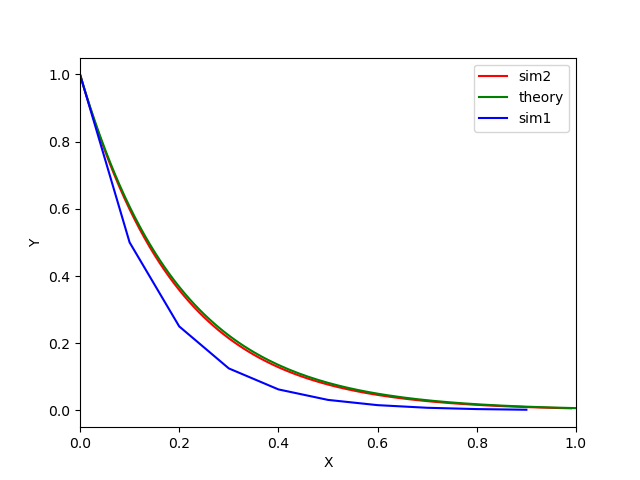
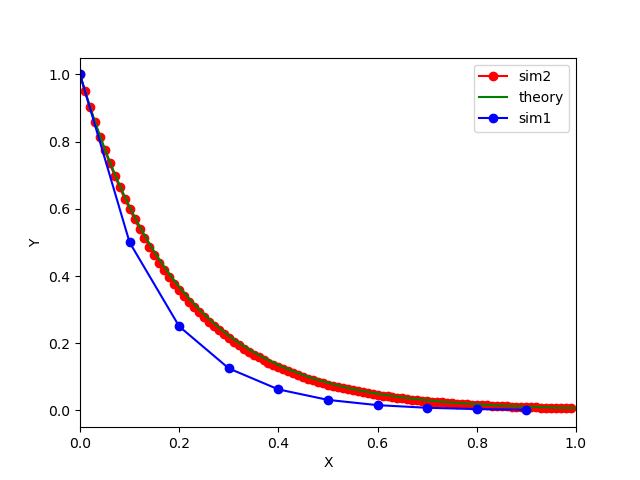
laplace and z-transforms

diff --git a/9.1.2/codes/plot.py b/9.1.2/codes/plot.py
@@ -25,7 +25,7 @@ gen.generate_points(
 
 fig = plt.figure()
 ax = plt.gca()
-plt.plot(points[:, 0], points[:, 1], c='r', label = "sim2")
+plt.plot(points[:, 0], points[:, 1], c='r',marker = "o", label = "sim2")
 x = np.linspace(0.0, 10, 1000)
 y = np.exp(-5*x)
 plt.plot(x, y, c='g', label = "theory")
@@ -35,7 +35,7 @@ gen.generate_points(
     points.ctypes.data_as(ctypes.POINTER(ctypes.c_double)),
     int(num_points/10)
 )
-plt.plot(points[:, 0], points[:, 1], c='b', label = "sim1")
+plt.plot(points[:, 0], points[:, 1], c='b', marker = "o", label = "sim1")
 '''
 ax.text(x1, y1, ' (5,4)', color='red', fontsize=12)
 ax.text(x2, y2, ' (9,-2)', color='green', fontsize=12)
